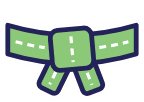
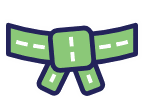
White Belt : bandeau Green Belt vert avec ceinture nouée, relu et corrigé (36/36 contrôles)
Claude-Session: https://claude.ai/code/session_01UQYNmBxidRR9rgQ1sVAb8q

diff --git a/brevo-white-belt/visuels/emails/src/greenbelt.js b/brevo-white-belt/visuels/emails/src/greenbelt.js
@@ -6,39 +6,50 @@
 // couture par pièce (une par bras de la bande, une dans le nœud, une par pan), deux pans en V renversé : une ceinture nouée, pas un
 // nœud papillon (bras droits et cousus, pans qui pendent). Liseré blanc (« autocollant ») de 1,5 px autour de la silhouette : elle se détache sur le bandeau du même vert et reste
 // lisible si un client assombrit le fond sans toucher aux images.
+// Coutures : trait de 1,3 px, chaque couture finit sur un tiret entier (longueur du tiret calculée sur la longueur réelle du tracé,
+// écart fixe de 1,9 px) : deux tirets par bras, deux dans le nœud, un seul tiret centré par pan (trop court pour deux). Tirets d'au
+// moins 2,4 px (garde-fou) : à 1× (ordinateur à 100 %, Outlook), chacun couvre au moins deux pixels pleins et reste un tiret blanc.
 // Marge transparente en haut (la silhouette commence à y ≈ 6) : l'image est centrée sur le texte (vertical-align:middle,
 // valign="middle"), dont le milieu des capitales tombe à 48 % de sa hauteur ; le centre du nœud (KY = 16,4 / 34) s'y place,
-// les bras de la bande encadrent le texte à mi-hauteur et les pans descendent sous la ligne.
+// les bras de la bande encadrent le texte à mi-hauteur et les pans descendent sous la ligne. Marge latérale de 0,5 px au-delà du
+// liseré : la première et la dernière colonne du PNG restent entièrement transparentes.
 start(() => {
   const W = 48, H = 34, K = 3;
   S.setAttribute('width', W * K); S.setAttribute('height', H * K); S.setAttribute('viewBox', `0 0 ${W} ${H}`);
   const SW = 1.6, HALO = 1.5;                        // contour encre, liseré blanc au-delà du contour
-  const L = 2.6, R = 45.4, KX = W / 2, KY = 16.4;    // bande de L à R ; centre du nœud (milieu des capitales du texte)
+  const L = 2.8, R = W - L, KX = W / 2, KY = 16.4;   // bande de L à R ; centre du nœud (milieu des capitales du texte)
   const th = 9.6, sag = 3.2;                         // épaisseur de la bande, creux de l'arc au nœud
   const kw = 13.8, kh = 13.4, tw = 7;                // nœud, largeur des pans
+  const SEAM = 1.3, GAP = 1.9, DMIN = 2.4;           // coutures : épaisseur, écart entre tirets, tiret minimal
   const yAt = x => { const u = (x - KX) / ((R - L) / 2); return KY - sag * u * u };   // axe de la bande
   const arc = (x0, x1) => { const xm = (x0 + x1) / 2, y0 = yAt(x0), y1 = yAt(x1); return `M ${x0} ${y0} Q ${xm} ${2 * yAt(xm) - (y0 + y1) / 2} ${x1} ${y1}` };
-  const pieces = [];                                 // [forme, coutures] dans l'ordre de pose : pans, bande, nœud
+  const pieces = [];                                 // [forme, [[couture, nombre de tirets], …]] dans l'ordre de pose : pans, bande, nœud
   const tail = (dx, ang) => {                        // pan accroché sous le nœud, longueur calculée pour finir au bas de la boîte
     const cx = KX + dx, y0 = KY + 1.4, a = Math.abs(ang) * Math.PI / 180;
     const len = (H - SW / 2 - HALO - 0.1 - y0 - (tw / 2) * Math.sin(a)) / Math.cos(a), g = {transform: `rotate(${ang} ${cx} ${y0})`};
+    const ym = (KY + kh / 2 + 1.6 + y0 + len - 2.2) / 2;   // milieu de la partie visible du pan, sous le nœud
     pieces.push([['rect', {x: cx - tw / 2, y: y0, width: tw, height: len, rx: 1.5}, g],
-                 [['path', {d: `M ${cx} ${KY + kh / 2 + 1.6} V ${y0 + len - 2.2}`}, g]]]);
+                 [[['path', {d: `M ${cx} ${ym - 1.4} V ${ym + 1.4}`}, g], 1]]]);
   };
   tail(-2.4, 26); tail(2.6, -21);
   const yE = KY - sag, yC = KY + sag;                // quadratique : extrémités à KY - sag, milieu à KY
   pieces.push([['path', {d: `M ${L} ${yE - th / 2} Q ${KX} ${yC - th / 2} ${R} ${yE - th / 2} L ${R} ${yE + th / 2} Q ${KX} ${yC + th / 2} ${L} ${yE + th / 2} Z`}, null],
-               [['path', {d: arc(L + 2.6, KX - kw / 2 - 2.2) + ' ' + arc(KX + kw / 2 + 2.2, R - 2.6)}, null]]]);
+               [[['path', {d: arc(L + 2.6, KX - kw / 2 - 2.2)}, null], 2], [['path', {d: arc(KX + kw / 2 + 2.2, R - 2.6)}, null], 2]]]);
   const kg = {transform: `rotate(-5 ${KX} ${KY})`};
   pieces.push([['rect', {x: KX - kw / 2, y: KY - kh / 2, width: kw, height: kh, rx: 2.6}, kg],
-               [['path', {d: `M ${KX} ${KY - kh / 2 + 2.4} V ${KY + kh / 2 - 2.4}`}, kg]]]);
+               [[['path', {d: `M ${KX} ${KY - kh / 2 + 2.6} V ${KY + kh / 2 - 2.6}`}, kg], 2]]]);
   const put = ([tag, a, g], extra, parent) => el(tag, {...a, ...extra}, g ? el('g', g, parent) : parent);
   const root = el('g', {});
-  // 1. liseré blanc sous toute la silhouette ; 2. pièces : remplissage vert, contour encre, coutures blanches
+  // 1. liseré blanc sous toute la silhouette ; 2. pièces : remplissage vert, contour encre, coutures blanches à tirets entiers
   for (const [shape] of pieces) put(shape, {fill: C.white, stroke: C.white, 'stroke-width': SW + 2 * HALO, 'stroke-linejoin': 'round'}, root);
   for (const [shape, seams] of pieces) {
     put(shape, {fill: C.green, stroke: C.ink, 'stroke-width': SW, 'stroke-linejoin': 'round'}, root);
-    for (const s of seams) put(s, {fill: 'none', stroke: C.white, 'stroke-width': 1.05, 'stroke-dasharray': '2.3 1.7', 'stroke-linecap': 'butt'}, root);
+    for (const [s, n] of seams) {
+      const node = put(s, {fill: 'none', stroke: C.white, 'stroke-width': SEAM, 'stroke-linecap': 'butt'}, root);
+      const d = (node.getTotalLength() - (n - 1) * GAP) / n;            // n tirets de longueur d, n − 1 écarts : finit sur un tiret
+      if (n > 1) node.setAttribute('stroke-dasharray', `${d.toFixed(3)} ${GAP}`);
+      if (d < DMIN) errs.push(`tiret de couture trop court : ${d.toFixed(2)} px`);
+    }
   }
   // Garde-fou : la silhouette (contour et liseré compris) tient dans la boîte
   const b = root.getBBox(), m = SW / 2 + HALO;

diff --git a/brevo-white-belt/build_emails_v2.py b/brevo-white-belt/build_emails_v2.py
@@ -26,6 +26,7 @@ Contrôles : le fond (EMAILS) est présent en entier (clauses) et rien n'est ajo
 visible, bandeau et pied exclus ; liens attendus = liens des blocs + bandeau + rappel + upsell + désinscription.
 """
 import html
+import html.parser
 import importlib.util
 import json
 import pathlib
@@ -478,7 +479,8 @@ GB_PICTO = (44, 31)        # styles en ligne : 360 à 413 px, et clients qui ret
 GB_PICTO_L = (48, 34)      # 414 px et plus (ordinateur compris), Outlook Windows
 GB_PICTO_S = (40, 28)      # 341 à 359 px
 GB_PICTO_XS = (36, 25)     # 340 px et moins
-GB_TEXT = 12.5             # taille du texte en ligne (clients sans <style>, en Arial : une ligne dès 320 px)
+GB_TEXT = 12.5             # taille du texte en ligne (clients sans <style>) : une ligne dès 320 px en Arial (5 px de jeu sur la ligne,
+                           # 8 px en Roboto) ; plus étroit, ou Poppins sans <style> sous 339 px : le texte passe sous le picto, centré
 
 def banner_css():
     """Règles du bandeau dans le <style> (tailles du picto et du texte, marges), par largeur d'écran ; repris tels quels par check()."""
@@ -505,11 +507,13 @@ def banner(key):
     Une seule ligne de 320 à 640 px, en Poppins comme en Arial (banner_css) :
       ordinateur (≥ 621 px)  picto 48 × 34, texte 14 px     414 à 620 px  48 × 34, 13 px     375 à 413 px  44 × 31, 13 px
       360 à 374 px           44 × 31, 12,5 px               341 à 359 px  40 × 28, 12 px     ≤ 340 px      36 × 25, 11,5 px
-    Styles en ligne (clients qui retirent le <style>) : picto 44 × 31, texte 12,5 px ; une ligne dès 320 px en Arial (13 px de marge) ;
-    plus étroit, ou police plus large, le texte passe sous le picto, centré.
+    Styles en ligne (clients qui retirent le <style>) : picto 44 × 31, texte 12,5 px ; une ligne dès 320 px en Arial (5 px de jeu sur
+    la ligne à 320 px, 8 px en Roboto) ; plus étroit, ou police plus large (Poppins sans <style> sous 339 px), le texte passe sous
+    le picto, centré. (Jeu = place restante sur la ligne, dans le padding de .gb-l ; avec <style>, au plus juste : 14,6 px en Poppins à 320 px.)
     Hauteur : 3 + 2 + 5 + picto + 5 + 2 + 3, soit 45 à 54 px (Outlook : 3 + 3 + 4 + 34 + 4 + 3 + 3 = 54 px).
     Toute la bande est cliquable (lien en bloc). Outlook Windows : tableau vert avec deux liens (pictogramme, texte) et les coutures
-    en cellules (comme rule()), sans VML (une image dans une zone de texte VML se décale selon le DPI) ; cellule du texte à hauteur
+    en cellules (comme rule()) ; le lien du pictogramme, sans texte, sort des lecteurs d'écran et de la tabulation (aria-hidden,
+    tabindex="-1") : le lien texte suffit. Sans VML (une image dans une zone de texte VML se décale selon le DPI) ; cellule du texte à hauteur
     fixe (34 px, interligne exact). Outlook.com en mode sombre : [data-ogsb] .bg-green et [data-ogsc] .on-green gardent vert et encre.
     Images bloquées : la place du pictogramme reste réservée (width/height), le texte est du vrai texte."""
     u = esc(banner_url(key))
@@ -525,7 +529,7 @@ def banner(key):
                             f'mso-line-height-rule:exactly;">&nbsp;</td></tr></table></td></tr>')
     mso = (f'<!--[if mso]><table role="presentation" width="600" cellpadding="0" cellspacing="0" border="0">{mso_seam("3px 16px 0 16px")}'
            f'<tr><td align="center" style="padding:4px 12px;">{T()}<tr>'
-           f'<td valign="middle" style="padding:0 10px 0 0;"><a href="{u}" target="_blank">{img("", wl, hl, "block")}</a></td>'
+           f'<td valign="middle" style="padding:0 10px 0 0;"><a href="{u}" target="_blank" aria-hidden="true" tabindex="-1">{img("", wl, hl, "block")}</a></td>'
            f'<td class="on-green" valign="middle" height="{hl}" style="height:{hl}px;font-family:Arial,Helvetica,sans-serif;font-size:14px;'
            f'line-height:18px;color:{INK};mso-line-height-rule:exactly;">'
            f'<a class="on-green" href="{u}" target="_blank" style="color:{INK};text-decoration:none;">{label}</a></td>'
@@ -906,6 +910,40 @@ def section(src, name):
     m = re.search(rf"<!-- {name}(?::[^>]*)? -->(.*?)<!-- /{name} -->", src, flags=re.S)
     return m.group(1) if m else None
 
+MSO_BLOCK = re.compile(r"<!--\[if mso\]>(.*?)<!\[endif\]-->", re.S)              # lu par Outlook Windows seul
+NOT_MSO_BLOCK = re.compile(r"<!--\[if !mso\]><!-->(.*?)<!--<!\[endif\]-->", re.S)  # lu par tous les autres clients
+
+def mso_view(h):
+    """Ce que lit Outlook Windows : blocs [if mso] ouverts, blocs !mso retirés."""
+    return MSO_BLOCK.sub(r"\1", NOT_MSO_BLOCK.sub("", h))
+
+def other_view(h):
+    """Ce que lisent les autres clients : blocs [if mso] retirés (simples commentaires), blocs !mso ouverts."""
+    return NOT_MSO_BLOCK.sub(r"\1", MSO_BLOCK.sub("", h))
+
+class _Nesting(html.parser.HTMLParser):
+    """Pile des balises de structure : chaque fermeture doit répondre à la dernière ouverture, et tout doit être refermé."""
+    TAGS = {"table", "tr", "td", "a", "span", "strong", "p", "div"}
+    def __init__(self):
+        super().__init__(convert_charrefs=True)
+        self.stack, self.bad = [], []
+    def handle_starttag(self, tag, attrs):
+        if tag in self.TAGS:
+            self.stack.append(tag)
+    def handle_endtag(self, tag):
+        if tag in self.TAGS:
+            if self.stack and self.stack[-1] == tag:
+                self.stack.pop()
+            else:
+                self.bad.append(f"</{tag}> (ouvert : {self.stack[-1] if self.stack else 'rien'})")
+
+def nesting(h):
+    """(équilibré, détail) pour un fragment HTML : pile vide et aucune fermeture inattendue."""
+    n = _Nesting()
+    n.feed(h)
+    n.close()
+    return not n.stack and not n.bad, {"non fermées": n.stack, "fermetures inattendues": n.bad}
+
 def check(key, src, images, brevo):
     e = EM[key]
     res = {}
@@ -942,6 +980,14 @@ def check(key, src, images, brevo):
     bd = section(src, "bandeau")
     sheet = src.index('class="sheet"')
     n_links = len(re.findall(r'<a\b[^>]*\shref="', bd or ""))
+    mso = MSO_BLOCK.findall(bd or "")
+    marks = ["<!--[if mso]>", "<!--[if !mso]><!-->", "<!--<![endif]-->", "<![endif]-->"]
+    cc = [(bd or "").count(m) for m in marks]
+    pos = [(bd or "").find(m) for m in ("<!--[if mso]>", "<![endif]-->", "<!--[if !mso]><!-->", "<!--<![endif]-->")]
+    nest_mso, nest_other = nesting(mso_view(bd or "")), nesting(other_view(bd or ""))
+    res["bandeau : commentaires conditionnels et balises équilibrés (Outlook et autres)"] = (
+        bool(bd) and cc == [1, 1, 1, 2] and pos == sorted(pos) and -1 not in pos and nest_mso[0] and nest_other[0],
+        {"marqueurs": dict(zip(marks, cc)), "Outlook": nest_mso[1], "autres": nest_other[1]})
     bd_ok = (bool(bd) and visible_text(bd) == BANNER_TEXT + " →" and hrefs(bd) == ({banner_url(key)}, set()) and n_links == 3)
     first = bool(bd) and "<tr" not in src[sheet:src.index("<!-- bandeau -->")] and src.index("<!-- bandeau -->") < src.index('alt="Fichly"')
     res["bandeau : texte exact, lien <eN>-bandeau (bloc + Outlook : picto et texte)"] = (bd_ok, (visible_text(bd), n_links) if bd else None)
@@ -953,11 +999,23 @@ def check(key, src, images, brevo):
         first and gb_ok and f"background-color:{GREEN}" in bd and bd.count("border-top:2px dashed #FFFFFF") == 4
         and font(GB_TEXT, 18, 500, INK) in bd and "v:rect" not in bd
         and bd.count(f'<strong class="on-green" style="font-weight:800;color:{INK};">Green&nbsp;Belt</strong>') == 2, (len(gb), sorted(map(wh, gb))))
-    mso = re.findall(r"<!--\[if mso\]>(.*?)<!\[endif\]-->", bd or "", flags=re.S)
-    res["bandeau Outlook : tableau vert sans VML, picto 48 × 34, texte en cellule à hauteur fixe, interligne exact"] = (
-        len(mso) == 1 and f'width="{GB_PICTO_L[0]}" height="{GB_PICTO_L[1]}"' in mso[0]
+    mso_txt = (re.sub(r"\s+", " ", html.unescape(re.sub(r"<[^>]+>", "", mso[0])).replace("\xa0", " ")).strip()
+               if len(mso) == 1 else None)
+    res["bandeau Outlook : texte exact, tableau vert sans VML, picto 48 × 34 hors lecteur d'écran, texte à hauteur fixe"] = (
+        len(mso) == 1 and mso_txt == BANNER_TEXT + " →" and f'width="{GB_PICTO_L[0]}" height="{GB_PICTO_L[1]}"' in mso[0]
+        and f'<a href="{esc(banner_url(key))}" target="_blank" aria-hidden="true" tabindex="-1"><img ' in mso[0]
         and re.search(rf'<td class="on-green" valign="middle" height="{GB_PICTO_L[1]}" style="height:{GB_PICTO_L[1]}px;[^"]*'
-                      r'line-height:18px;[^"]*mso-line-height-rule:exactly;', mso[0]) is not None, "")
+                      r'line-height:18px;[^"]*mso-line-height-rule:exactly;', mso[0]) is not None, mso_txt)
+    # cibles des règles du <style> : toutes dans le lien en bloc (toute la bande cliquable), picto gb-i en 44 × 31 hors Outlook
+    nv = other_view(bd or "")
+    blk = re.search(r'<a class="on-green" href="[^"]+" target="_blank" style="display:block;padding:3px 0;[^"]*">(.*)</a>', nv, flags=re.S)
+    inner = blk.group(1) if blk else ""
+    gi = [i for i in re.findall(r"<img [^>]+>", inner) if 'class="gb-i"' in i]
+    want_cls = sorted(set(re.findall(r"\.(gb-[\w-]+)", " ".join(r for rules in banner_css().values() for r in rules))))
+    res["bandeau : cibles du <style> (" + ", ".join(want_cls) + ", topband) dans le lien en bloc, picto gb-i en 44 × 31"] = (
+        bool(blk) and (bd or "").count('class="gb-i"') == 1 and len(gi) == 1 and wh(gi[0]) == GB_PICTO
+        and inner.count('class="gb-s"') == 2 and all(f'class="{c}"' in inner for c in want_cls)
+        and (bd or "").startswith('<tr><td class="topband bg-green" '), want_cls)
     css = [r for rules in banner_css().values() for r in rules]
     res["bandeau : <style> (picto 48 × 34 dès 414 px, 40 × 28 ≤ 359 px, 36 × 25 ≤ 340 px ; Outlook.com sombre)"] = (
         all(r in src for r in css) and "@media only screen and (min-width:414px)" in src
@@ -1012,6 +1070,13 @@ def check(key, src, images, brevo):
     picto = [i for i in imgs if f'src="{esc(images["greenbelt"])}"' in i]
     ill = [i for i in imgs if i not in logo and i not in picto and 'alt="Hugo, Fichly"' not in i]
     res["une illustration au plus (hors logo, avatar, picto du bandeau)"] = (len(ill) <= 1, len(ill))
+    from PIL import Image
+    with Image.open(IMAGES["greenbelt"]) as im:            # fichier local (aussi en --brevo : même PNG que dans la galerie)
+        gsz, gmode = im.size, im.mode
+    ratio = gsz[0] / gsz[1]
+    res["picto du bandeau : PNG RGBA 3× de 48 × 34 (144 × 102), tailles affichées sans déformation (± 2,5 %)"] = (
+        gsz == (GB_PICTO_L[0] * 3, GB_PICTO_L[1] * 3) and gmode == "RGBA"
+        and all(abs(w / h / ratio - 1) <= 0.025 for w, h in (GB_PICTO, GB_PICTO_L, GB_PICTO_S, GB_PICTO_XS)), (gsz, gmode))
     res["alt sur chaque image (vide pour le picto décoratif du bandeau)"] = (
         all(re.search(r'alt="[^"]+"', i) for i in imgs if i not in picto) and all('alt=""' in i for i in picto), "")
     res["width et height sur chaque image"] = (all(re.search(r'width="\d+"', i) and re.search(r'height="\d+"', i) for i in imgs), "")
